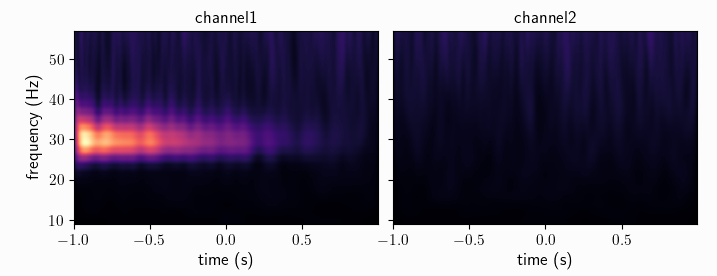
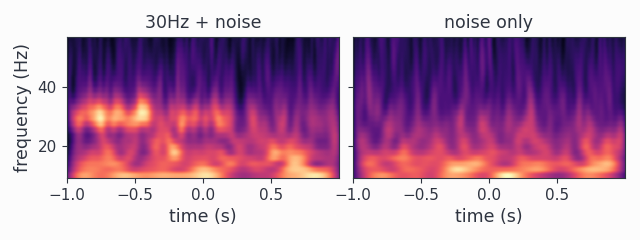
DOC: New quickstart

diff --git a/doc/source/quickstart/quickstart.rst b/doc/source/quickstart/quickstart.rst
@@ -6,6 +6,8 @@ Quickstart with Syncopy
 
 Here we want to quickly explore some standard analyses for analog data (e.g. MUA or LFP measurements), and how to do these in Syncopy. Explorative coding is best done interactively by using e.g. `Jupyter <https://jupyter.org>`_ or `IPython <https://ipython.org>`_. Note that for plotting also `matplotlib <https://matplotlib.org>`_ has to be installed.
 
+Users coming from `FieldTrip <https://www.fieldtriptoolbox.org/>`_ should also have a look at the :ref:`field_trip` section.
+
 .. contents:: Topics covered
    :local:
 
@@ -16,23 +18,81 @@ Here we want to quickly explore some standard analyses for analog data (e.g. MUA
 Preparations
 ============
 
-To start with a clean slate, let's construct a synthetic dataset consisting of a damped 30Hz harmonic and additive white noise:
+To start with a clean slate, let's construct a synthetic dataset consisting of a damped 30Hz harmonic
+and additive red noise acting as a 1/f surrogate::
 
-.. literalinclude:: /quickstart/damped_harm.py
+  import numpy as np
+  import syncopy as spy
 
-With this we have a dataset of type :class:`~syncopy.AnalogData`, which is intended for holding time-series data like electrophys. measurements. Let's have a look at a small snippet of the 1st trial::
+  # cfg dictionary
+  cfg = spy.StructDict()
+  cfg.nTrials = 50
+  cfg.nSamples = 1000
+  cfg.nChannels = 2
+  cfg.samplerate = 500   # in Hz
 
-  data.singlepanelplot(trials=0, latency=[0, 0.5])
+  # 30Hz undamped harmonic
+  harm = spy.synthdata.harmonic(cfg, freq=30)
+  
+  # red noise with seed for exact reproducibility
+  noise = spy.synthdata.red_noise(cfg, alpha=0.9, seed=42)
+
+To look at a single trial we can use the ``.trials`` property of Syncopy data objects, which behaves similar to Python lists where each element is a trial represented as a :class:`~numpy.ndarray`::
+
+  # how many trials do we have?
+  print(harm.trials)
+  >>> 50 element iterable
+
+  # access the 1st trial as numpy array
+  print(harm.trials[0].shape)
+  >>> (1000, 2)
+
+  # show order of dimensions
+  print(harm.dimord)
+  >>> ['time', 'channel']
+
+So we see that as defined above we indeed have 50 trials, with each having 1000 samples and 2 channels.
+
+For now we have two distinct datasets ``harm`` and ``noise``, we can combine them using standard arithmetic Python operators. But first let's actually dampen the harmonic and zero out the 2nd channel::
+
+  # pseudo 2d array with shape (1000, 1) for the dampening
+  harm = harm * np.linspace(1, 0.2, cfg.nSamples)[:, np.newaxis]
+  
+  # zero out 2nd channel with a (2,) shaped array
+  harm = harm * np.array([1, 0])
+
+To check that we got a damped harmonic on ``channel1`` and just zeros on ``channel2`` we can plot an arbitrary trial::
+
+  # plot the 20th trial
+  harm.singlepanelplot(trials=19)
+
+.. image:: damped_harm.png
+   :height: 220px
+
+Finally we can just add our red noise dataset to arrive at our final synthetic dataset::
+
+  # scale the noise up a bit
+  adata = harm + 1.2 * noise
+
+  # rename the channels
+  adata.channel = ['30Hz + noise', 'noise only']
+  
+.. note::
+   Syncopy arithmetics follow `NumPy's broadcasting rules <https://numpy.org/doc/stable/user/basics.broadcasting.html>`_ on a trial-by-trial basis. Meaning single arrays which are broadcastable to every trial OR Syncopy datasets where each trial-pair of both datasets is shape compatible are valid operands. 
+  
+``adata`` is a dataset of type :class:`~syncopy.AnalogData`, which is intended for holding time-series data like electrophys. measurements. Let's have a look at a small snippet of the 1st trial::
+
+  adata.singlepanelplot(trials=0, latency=[0, 0.5])
 
 .. image:: damped_signals.png
    :height: 220px
 
-By construction, we made the (white) noise of the same strength as the signal, hence by eye the oscillations present in ``channel1`` are hardly visible. The parameter ``latency`` defines a time-interval selection.
+By construction, we made the red noise of similar strength as the signal, hence by eye the oscillations present in ``channel1`` are hardly visible. The parameter ``latency`` defines a time-interval selection.
 
 .. hint::
    How to plot and work with subsets of Syncopy data is described in :ref:`selections`.
 
-To recap: we have generated a synthetic dataset white noise on both channels, and ``channel1`` additionally carries the damped harmonic signal.
+To recap: we have generated a synthetic dataset whith red noise on both channels, and ``channel1`` additionally carries the damped harmonic signal.
 
 .. hint::
    Further details about artificial data generation can be found at the :ref:`synthdata` section.
@@ -45,7 +105,7 @@ We can get some basic information about any Syncopy dataset by just typing its n
 
 .. code-block:: python
 
-   data
+   adata
 
 which gives nicely formatted output:
 
@@ -56,7 +116,7 @@ which gives nicely formatted output:
             cfg : dictionary with keys ''
         channel : [2] element <class 'numpy.ndarray'>
       container : None
-           data : 50 trials of length 1000.0 defined on [50000 x 2] float32 Dataset of size 1.14 MB
+           data : 50 trials of length 1000.0 defined on [50000 x 2] float64 Dataset of size 0.76 MB
          dimord : time by channel
        filename : /xxx/xxx/.spy/spy_910e_572582c9.analog
            mode : r+
@@ -88,11 +148,9 @@ Here we quickly want to showcase two important methods for (time-)frequency anal
 Multitapered Fourier Analysis
 ------------------------------
 
-`Multitaper methods <https://en.wikipedia.org/wiki/Multitaper>`_ allow for frequency smoothing of Fourier spectra. Syncopy implements the standard `Slepian/DPSS tapers <https://en.wikipedia.org/wiki/Window_function#DPSS_or_Slepian_window>`_ and provides a convenient parameter, the *taper smoothing frequency* ``tapsmofrq`` to control the amount of one-sided spectral smoothing in Hz. To perform a multi-tapered Fourier analysis with 2Hz spectral smoothing (1Hz two sided), we simply do:
+`Multitaper methods <https://en.wikipedia.org/wiki/Multitaper>`_ allow for frequency smoothing of Fourier spectra. Syncopy implements the standard `Slepian/DPSS tapers <https://en.wikipedia.org/wiki/Window_function#DPSS_or_Slepian_window>`_ and provides a convenient parameter, the *taper smoothing frequency* ``tapsmofrq`` to control the amount of one-sided spectral smoothing in Hz. To perform a multi-tapered Fourier analysis with 2Hz spectral smoothing (1Hz two sided), we simply do::
 
-.. code-block::
-
-   fft_spectra = spy.freqanalysis(data, method='mtmfft', foilim=[0, 60], tapsmofrq=1)
+   fft_spectra = spy.freqanalysis(adata, method='mtmfft', foilim=[0, 60], tapsmofrq=1)
 
 The parameter ``foilim`` controls the *frequencies of interest  limits*, so in this case we are interested in the range 0-60Hz. Starting the computation interactively will show additional information::
 
@@ -111,12 +169,12 @@ To quickly have something for the eye we can compute the trial average and plot 
   fft_avg = spy.mean(fft_spectra, dim='trials')
 
   # plot frequency range between 10Hz and 50Hz
-  fft_avg.singlepanelplot(frequency=[10, 50])
+  fft_avg.singlepanelplot(frequency=[2, 60])
 
 .. image:: mtmfft_spec.png
    :height: 260px
 
-We clearly see a smoothed spectral peak at 30Hz, channel 2 just contains the flat white noise floor. Comparing with the signals plotted in the time domain above, we see the power of the frequency representation of an oscillatory signal.
+We clearly see a smoothed spectral peak at 30Hz, channel 2 just contains the red noise with its 1/f characteristic. Comparing with the signals plotted in the time domain above, we see the benefit of the frequency representation of an oscillatory signal.
 
 The related short time Fourier transform can be computed via ``method='mtmconvol'``, see :func:`~syncopy.freqanalysis` for more details and examples.
 
@@ -132,20 +190,17 @@ In Syncopy we can compute the Wavelet transform by calling :func:`~syncopy.freqa
 
   # define frequencies to scan
   fois = np.arange(10, 60, step=2) # 2Hz stepping
-  wav_spectra = spy.freqanalysis(data,
+  wav_spectra = spy.freqanalysis(adata,
                                  method='wavelet',
 				 foi=fois,
-				 parallel=True,
 				 keeptrials=False)
 
-Here we used two additional parameters supported by every Syncopy analysis method:
+Here we used an additional parameter supported by every Syncopy analysis method:
 
-- ``parallel=True`` invokes Syncopy's parallel processing engine
 - ``keeptrials=False`` triggers trial averaging
 
 .. hint::
-
-   If parallel processing is unavailable, have a look at :ref:`install_acme`
+   Have a look at the :ref:`parallel` section for information about concurrent computations with Syncopy.
 
 To quickly inspect the results for each channel we can use::
 
@@ -154,7 +209,7 @@ To quickly inspect the results for each channel we can use::
 .. image:: wavelet_spec.png
    :height: 250px
 
-Again, we see a strong 30Hz signal in the 1st channel, and channel 2 is devoid of any rhythms. However, in contrast to the ``method='mtmfft'`` call, now we also get information along the time axis. The dampening of the 30Hz harmonic over time in channel 1 is clearly visible.
+Again, we see a 30Hz signal in the 1st channel, and channel 2 is dominated by aperiodic dynamics resembling 1/f. However, in contrast to the ``method='mtmfft'`` call, now we also get information along the time axis. The dampening of the 30Hz harmonic over time in channel 1 is clearly visible.
 
 An improved method, the superlet transform, providing super-resolution time-frequency representations can be computed via ``method='superlet'``, see :func:`~syncopy.freqanalysis` for more details.
 

diff --git a/doc/source/user/fieldtrip.rst b/doc/source/user/fieldtrip.rst
@@ -1,3 +1,5 @@
+.. _field_trip:
+
 Syncopy for FieldTrip Users
 ===========================
 
